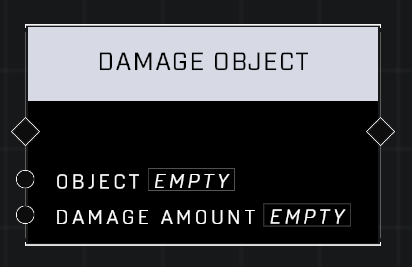
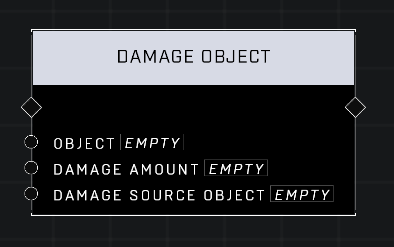
Updated new node pages and properties
* Set Player Overshield already had a page, it just was never added to SUMMARY
* Damage Object node has a new property "Damage Source Object". Image and input pin updated on it's page.
* New node "Detach Item From Razorback" page created and infos added, page added to SUMMARY

diff --git a/scripting/nodes/vehicles/detach-item-from-razorback.md b/scripting/nodes/vehicles/detach-item-from-razorback.md
@@ -1,7 +1,7 @@
-# Damage Object
-![](../../../.gitbook/assets/damage-object.png)
+# Detach Item From Razorback
+![](../../../.gitbook/assets/detach-item-from-razorback.JPG)
 ## Description
-Deals the Damage Amount as raw damage to the Object. Final damage dealt value is affected by the material of the Object. Use Get Object Health and Print Number to Killfeed to determine final value if needed.
+Forces the Item to detach from the Razorback it is attached to. Has no effect if the item is not attached to a Razorback.
 
 ## Node Type
 Nodes fall into two basic categories: Data and Execution. This node Executes a function directly in the node string.
@@ -9,14 +9,12 @@ Nodes fall into two basic categories: Data and Execution. This node Executes a f
 ## Inputs
 | Input | Type | Required | Description |
 |------------------|------------------|----------|--------------------------------------------------------------|
-| Object| Object | Yes | Object that is to take damage. |
-| Damage Amount | Number | Yes | How much damage to apply to Object. |
-| Damage Source Object | Object | No | What object to attribute damage to. |
+| Item | Object | Yes | Which object to detach. |
 
 ## Outputs
 | Output | Type | Description |
 |------------------|------------------|--------------------------------------------------------------|
-| (none) |  |  |
+| (none) | | |
 
 \
 \

diff --git a/SUMMARY.md b/SUMMARY.md
@@ -748,6 +748,7 @@
     * [Set Player Camo](scripting/nodes/players/set-player-camo.md)
     * [Set Player FFA Allegiance](scripting/nodes/players/set-player-ffa-allegiance.md)
     * [Set Player Mark Override](scripting/nodes/players/set-player-mark-override.md)
+    * [Set Player Overshield](scripting/nodes/players/set-player-overshield.md)
     * [Set Player Team](scripting/nodes/players/set-player-team.md)
     * [Set Player VFX](scripting/nodes/players/set-player-vfx.md)
     * [Set Respawn Penalty](scripting/nodes/players/set-respawn-penalty.md)
@@ -977,6 +978,7 @@
   * [VEHICLES](scripting/nodes/vehicles/README.md)
     * [Are Same Vehicle Type](scripting/nodes/vehicles/are-same-vehicle-type.md)
     * [Attempt To Enter Vehicle](scripting/nodes/vehicles/attempt-to-enter-vehicle.md)
+    * [Detach Item From Razorback](scripting/nodes/vehicles/detach-item-from-razorback.md)
     * [Flip Vehicle](scripting/nodes/vehicles/flip-vehicle.md)
     * [Get Is Boarding](scripting/nodes/vehicles/get-is-boarding.md)
     * [Get Is Driving Vehicle](scripting/nodes/vehicles/get-is-driving-vehicle.md)
